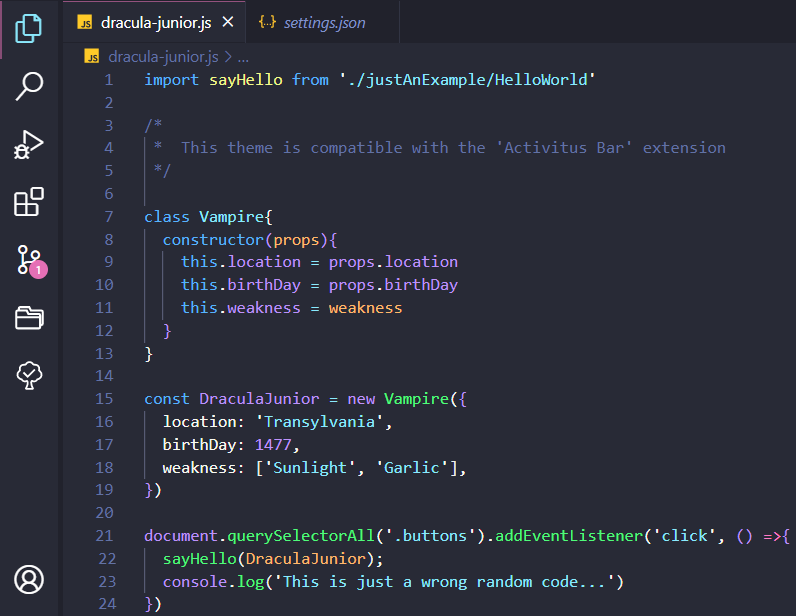
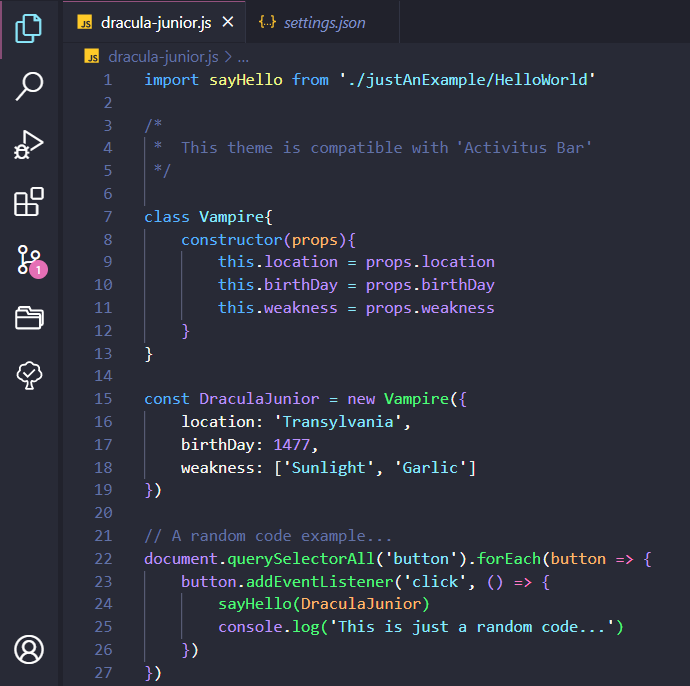
Version 1.26.0

diff --git a/CHANGELOG.md b/CHANGELOG.md
@@ -1,3 +1,9 @@
+### 1.26.0 (minor)
+- Scrollbar improvement.
+- Minimap slider improvement.
+- Overview ruler improvement.
+- Screnshot updated.
+
 #### 1.25.4 (patch)
 - Small minimap improvement.
 
